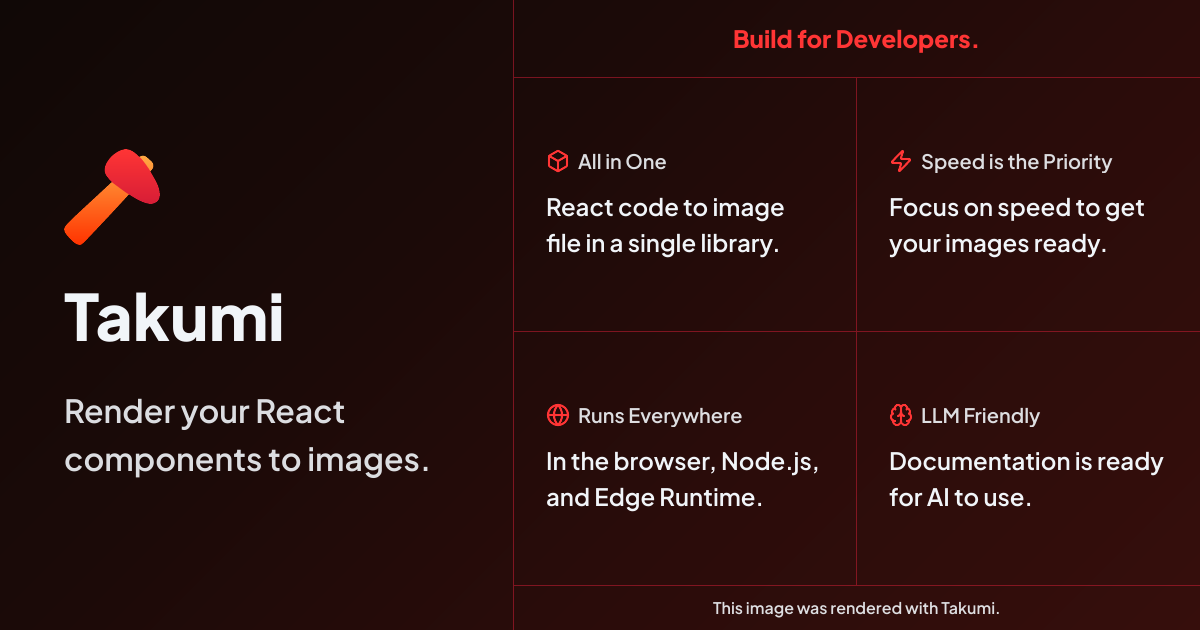
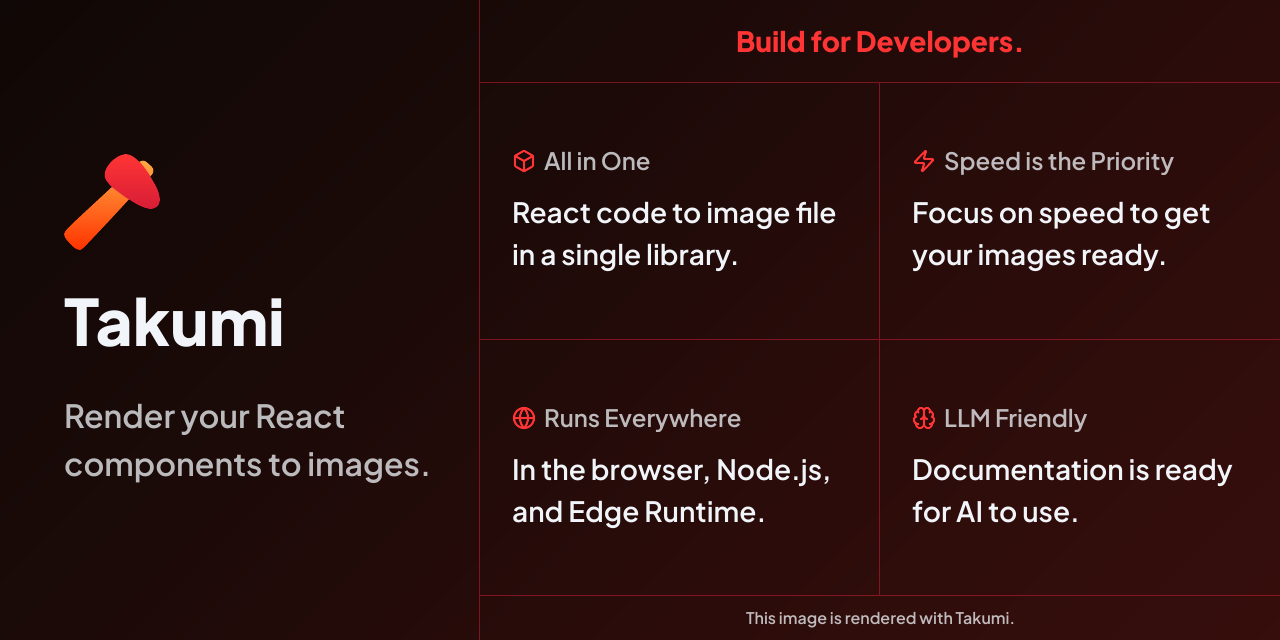
Example: update og-image example size to match github recommended og size

diff --git a/example/og-image/component.tsx b/example/og-image/component.tsx
@@ -1,7 +1,7 @@
 import { Box, Brain, Globe, type LucideIcon, Zap } from "lucide-react";
 import { createElement } from "react";
 
-const secondaryForeground = "rgba(241, 245, 249, 0.9)";
+const secondaryForeground = "rgba(241, 245, 249, 0.75)";
 const primaryForeground = "#F1F5F9";
 const borderColor = "rgba(215, 29, 54, 0.5)";
 const accentColor = "#ff3535";
@@ -16,13 +16,13 @@ export function Component() {
         height: "100%",
         fontFamily: "Plus Jakarta Sans",
         display: "grid",
-        gridTemplateColumns: "3fr 4fr",
+        gridTemplateColumns: "3fr 5fr",
         borderColor,
       }}
     >
       <div
         style={{
-          padding: "4rem",
+          paddingLeft: "4rem",
           display: "flex",
           flexDirection: "column",
           borderRightWidth: 1,
@@ -66,7 +66,7 @@ export function Component() {
             style={{
               color: accentColor,
               fontWeight: 800,
-              fontSize: "1.5rem",
+              fontSize: "1.75rem",
               padding: "0.5rem 1rem",
             }}
           >
@@ -88,7 +88,7 @@ export function Component() {
               fontSize: "1rem",
             }}
           >
-            This image was rendered with Takumi.
+            This image is rendered with Takumi.
           </span>
         </div>
       </div>
@@ -174,11 +174,11 @@ function Feature({
           width: 24,
           height: 24,
         })}
-        <span style={{ fontSize: "1.25rem", fontWeight: 600 }}>{title}</span>
+        <span style={{ fontSize: "1.5rem", fontWeight: 600 }}>{title}</span>
       </div>
       <span
         style={{
-          fontSize: "1.5rem",
+          fontSize: "1.75rem",
           color: primaryForeground,
           fontWeight: 600,
           lineHeight: 1.5,

diff --git a/example/og-image/index.tsx b/example/og-image/index.tsx
@@ -1,5 +1,5 @@
 import { join } from "node:path";
-import { type OutputFormat, Renderer } from "@takumi-rs/core";
+import { Renderer } from "@takumi-rs/core";
 import { fromJsx } from "@takumi-rs/helpers/jsx";
 import { file, Glob, write } from "bun";
 import { Component } from "./component";
@@ -29,9 +29,10 @@ const component = await fromJsx(<Component />);
 
 const start = performance.now();
 
+// github og image size
 const buffer = await renderer.renderAsync(component, {
-  width: 1200,
-  height: 630,
+  width: 1280,
+  height: 640,
 });
 
 const end = performance.now();

diff --git a/README.md b/README.md
@@ -2,9 +2,7 @@
 
 # Takumi
 
-> 🚧 This project is under development.
-
-_Takumi (匠 🪓) means "artisan" or "craftsman" in Japanese._
+_Takumi <sub>(匠 🪓)</sub> means "artisan" or "craftsman" in Japanese._
 
 For newcomers, check out the [Overview](https://takumi.kane.tw/docs/) documentation for installation and usage.
 
